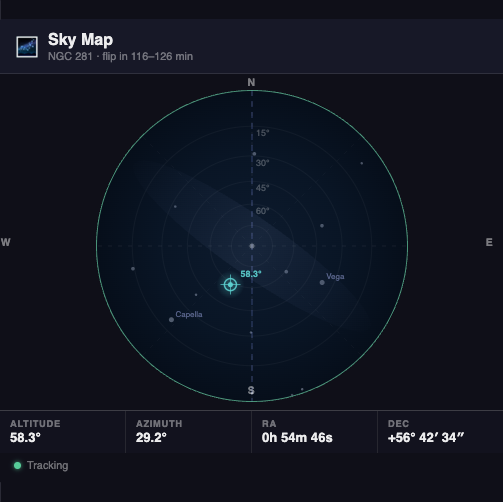
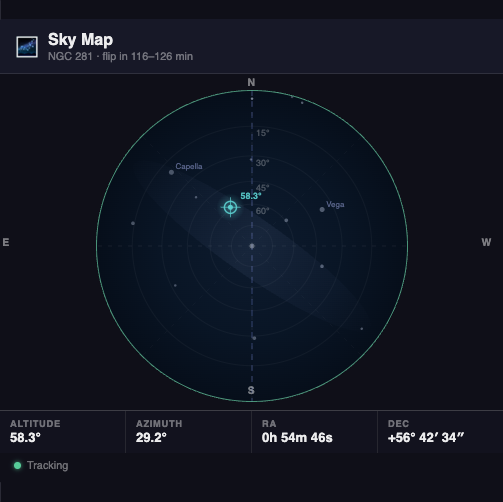
fix: the sky map draws north up with east on the left, under its letters (#189)
project() put azimuth 0 at the bottom of the canvas, while the N label sat
at the top, so every point was drawn under the opposite letter. The map is
now a sky chart held overhead, north up and east on the left; the E and W
labels move to match. The README gallery image is re-rendered from the
harness's tracking scenario.

diff --git a/custom_components/nina_astrophotography/www/nina-sky-map-card.js b/custom_components/nina_astrophotography/www/nina-sky-map-card.js
@@ -99,12 +99,13 @@ function equToHoriz(ra_h, dec_deg, lat_deg, lst_h) {
 }
 
 /** Stereographic projection: alt/az → unit circle (x,y), [-1,1].
-    Zenith is centre, horizon the edge; az 0° (north) is up. */
+    Zenith is centre, horizon the edge. Drawn as a sky chart held overhead:
+    north up and east on the left (canvas y increases down). */
 function project(alt_deg, az_deg) {
   const r = Math.cos(alt_deg * DEG) / (1 + Math.sin(alt_deg * DEG));
-  const a = (az_deg - 180) * DEG;   // rotate so N is up (canvas y increases down)
+  const a = az_deg * DEG;
   return {
-    x:  r * Math.sin(a),
+    x: -r * Math.sin(a),
     y: -r * Math.cos(a),
   };
 }
@@ -302,8 +303,8 @@ class NinaSkyMapCard extends HTMLElement {
             style="width:${size}px;height:${size}px;"></canvas>
           <span class="compass-label" id="cl-n"  style="top:8px;   left:50%">N</span>
           <span class="compass-label" id="cl-s"  style="bottom:8px;left:50%">S</span>
-          <span class="compass-label" id="cl-e"  style="top:50%;   right:6px">E</span>
-          <span class="compass-label" id="cl-w"  style="top:50%;   left:6px">W</span>
+          <span class="compass-label" id="cl-e"  style="top:50%;   left:6px">E</span>
+          <span class="compass-label" id="cl-w"  style="top:50%;   right:6px">W</span>
         </div>
         <div class="info-row">
           <div class="info-cell"><div class="lbl">Altitude</div><div class="val" id="inf-alt">—</div></div>

diff --git a/CHANGELOG.md b/CHANGELOG.md
@@ -4,6 +4,18 @@ All notable changes to the N.I.N.A. Astrophotography Home Assistant integration 
 
 ---
 
+## [Unreleased]
+
+### Fixed
+
+- **The sky map's compass letters match the sky it draws.** The map drew north
+  at the bottom under the N at the top, so the scope, the stars and the flip
+  label all sat under the opposite letter. It is now a sky chart held
+  overhead: north up and east on the left, with the E and W letters to match
+  (#163).
+
+---
+
 ## [2.3.0] - 2026-10-26
 
 ### Added
